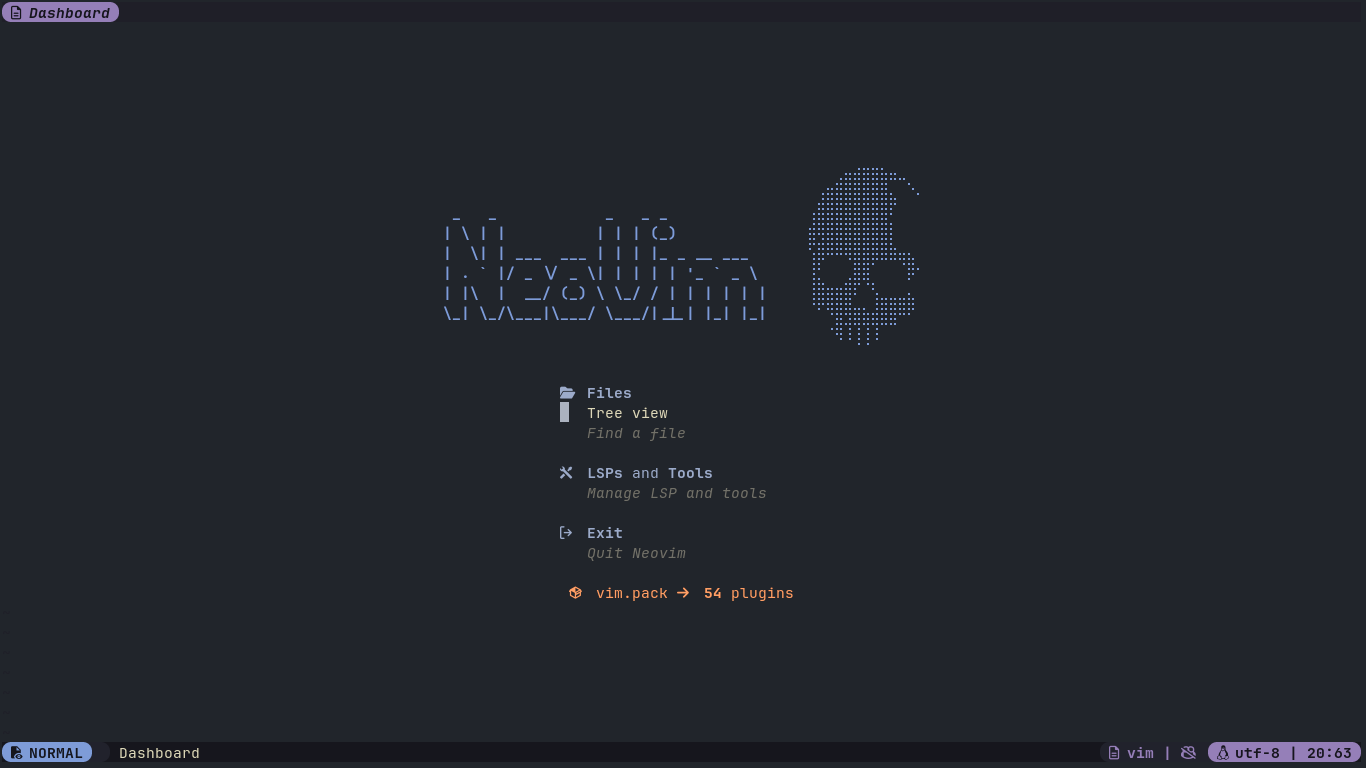
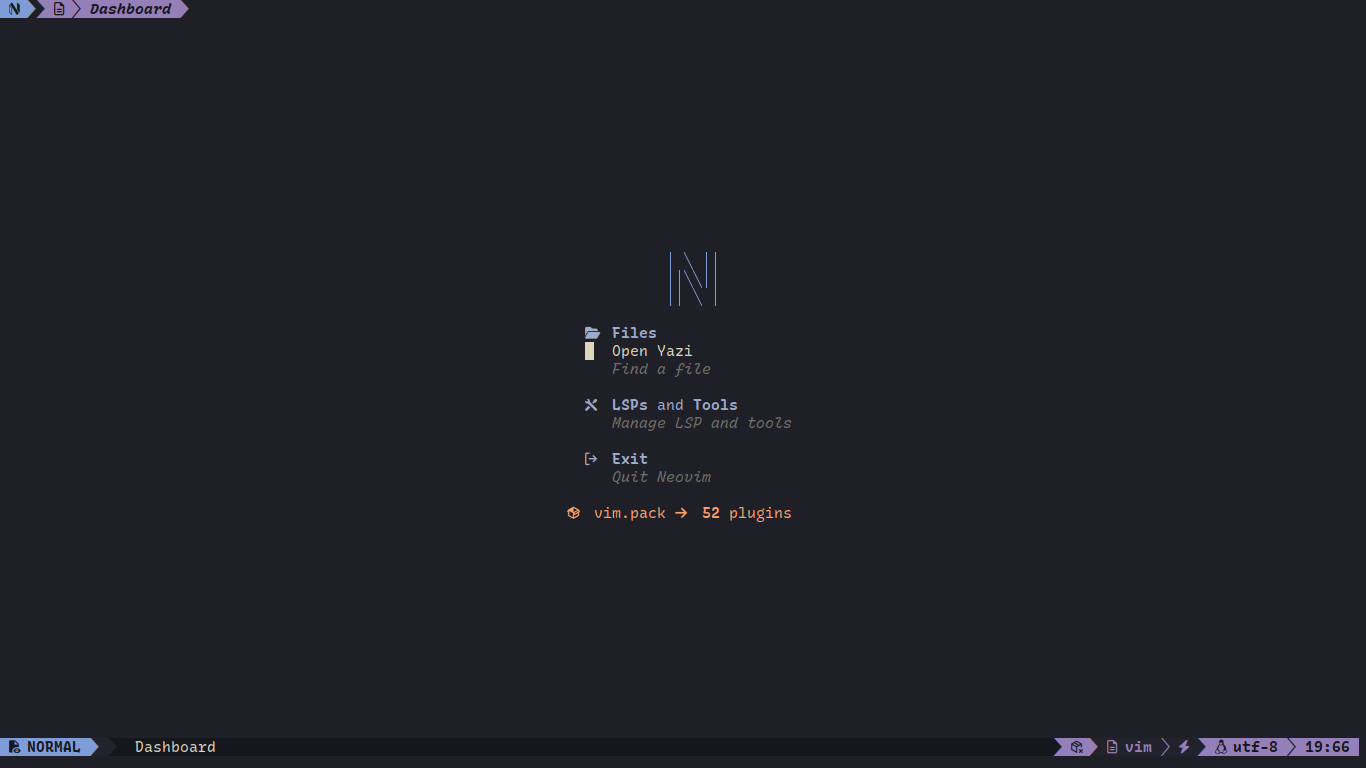
docs: update images

diff --git a/README.md b/README.md
@@ -29,7 +29,6 @@ This repository contains my current [Neovim](https://neovim.io/) setup, used at 
 ![Starter using leo-alvarenga/homecoming.nvim](./docs/starter.png)
 ![Usage](./docs/usage-simple.png)
 ![Completions](./docs/usage-blink.png)
-![Copilot completions](./docs/usage-copilot.png)
 
 ## Themming
 
@@ -39,7 +38,7 @@ For now, at least, there is only one theme available `Kanagawa Wave`.
 
 The statusline and tabline come in three interchangeable looks, picked in `lua/values/ui.lua` (`M.bar_style`):
 
-- `"classic"` — classic powerline chevrons (`\ue0b0`), only the active buffer gets the accent block *(default)*
+- `"classic"` — classic powerline chevrons (`\ue0b0`), only the active buffer gets the accent block _(default)_
 - `"powerline"` — angled/slanted separators (`\ue0ba` / `\ue0bc`)
 - `"bubble"` — rounded pill separators (`\ue0b6` / `\ue0b4`)
 
